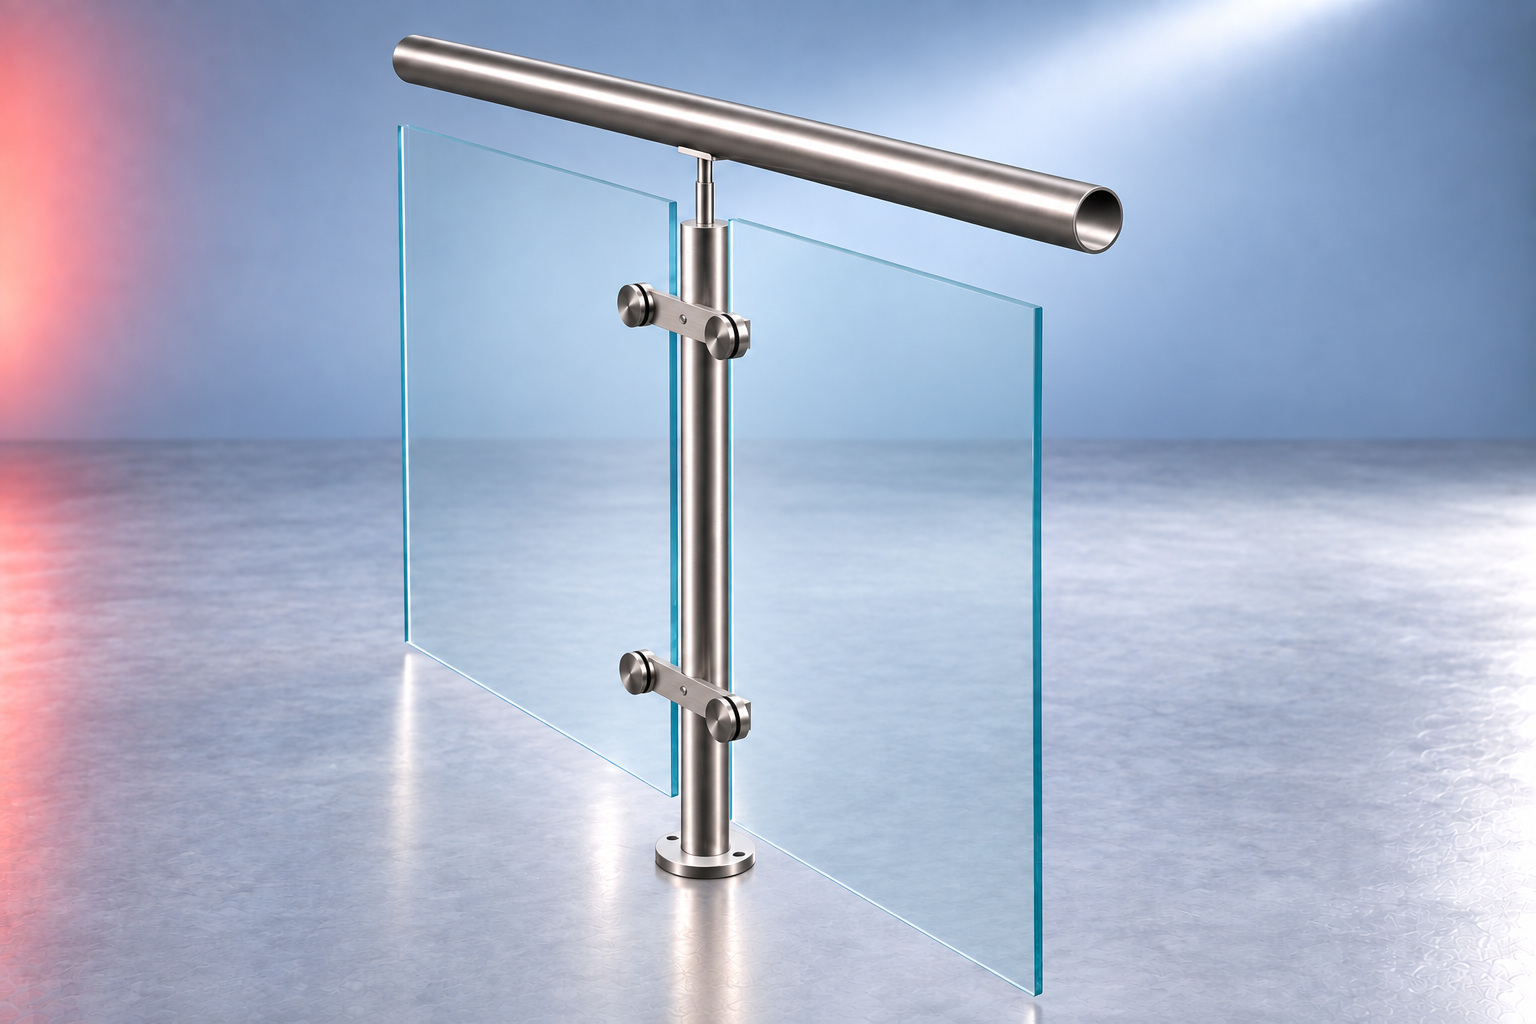
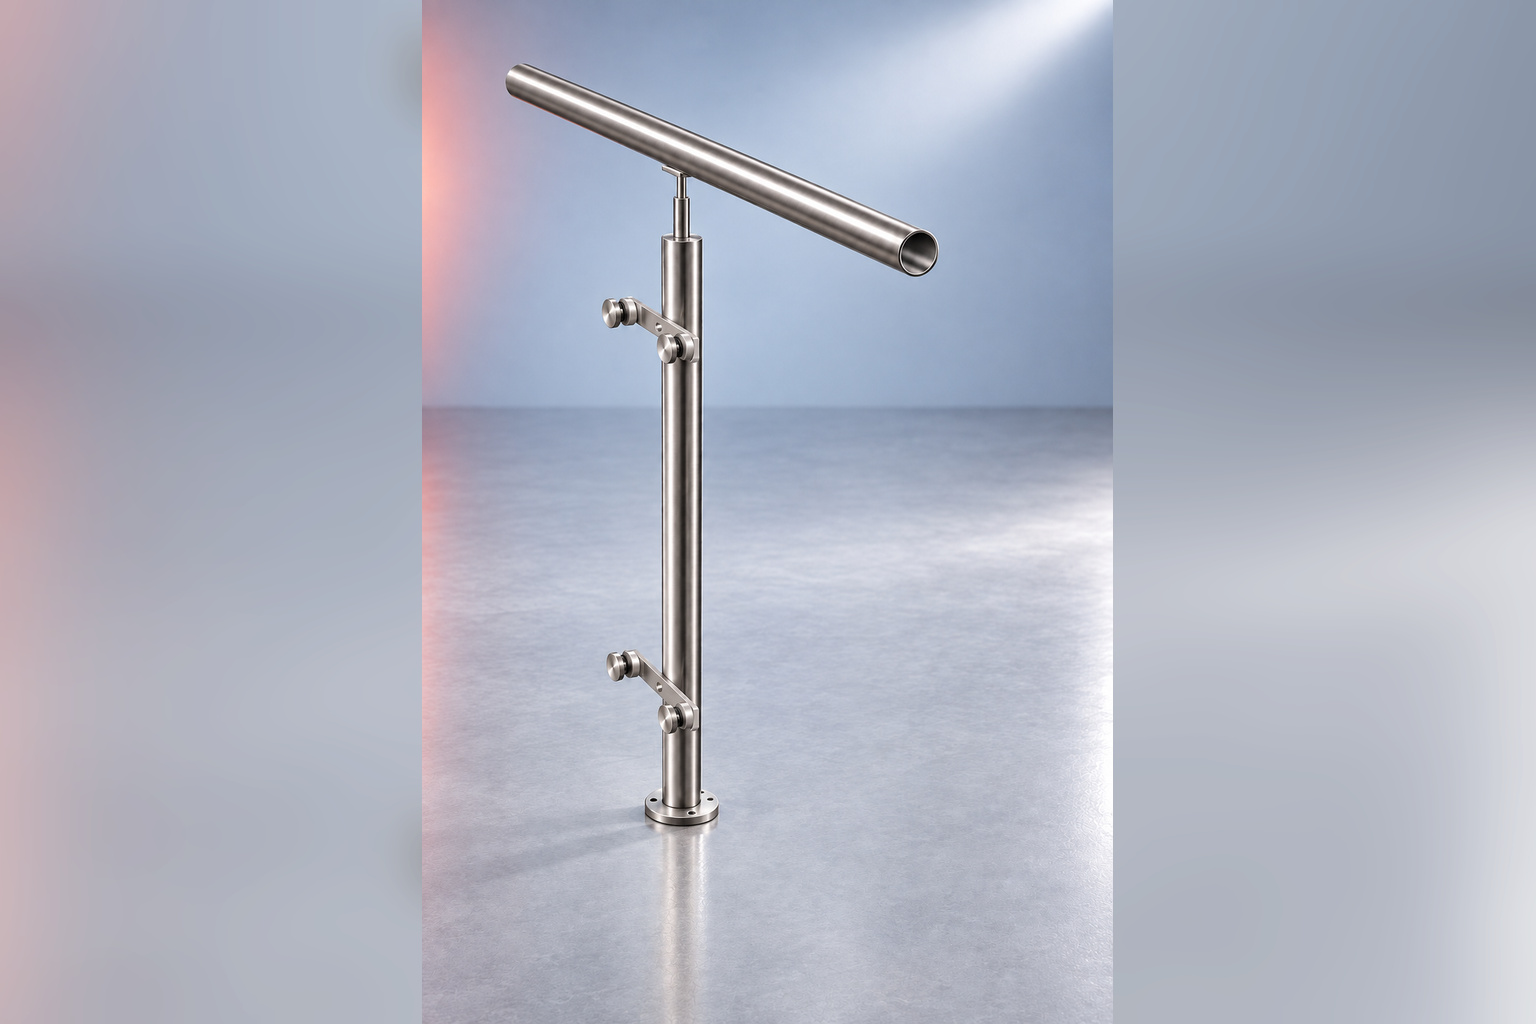
Use final HRD 1223 and HRD 1221 covers (1.56.1)

diff --git a/index.html b/index.html
@@ -222,12 +222,12 @@
           <button class="project-open" type="button" data-open-project="hrd1616" aria-haspopup="dialog"><span>Explorar solución</span><b aria-hidden="true"><i></i></b></button>
         </article>
         <article class="project-card project-card-hrd1223" data-project="hrd1223">
-          <figure class="project-card-photo"><img src="/assets/projects/hrd-1223/portada-estudio.jpg?v=1-56-0" alt="Estudio del poste HRD 1223 con cuerpo tubular y brazos ajustables para vidrio" loading="lazy"></figure>
+          <figure class="project-card-photo"><img src="/assets/projects/hrd-1223/portada-estudio.jpg?v=1-56-1" alt="Estudio del poste HRD 1223 con cuerpo tubular y brazos ajustables para vidrio" loading="lazy"></figure>
           <div class="project-card-copy"><span>04 · HRD 1223 · Estudio de tubo</span><h3>Tubo circular.<br>Brazos ajustables.</h3><p>Cuerpo tubular, cuatro puntos de sujeción y vidrio. Una reconstrucción visual para explorar cada unión.</p></div>
           <button class="project-open" type="button" data-open-project="hrd1223" aria-haspopup="dialog"><span>Explorar poste</span><b aria-hidden="true"><i></i></b></button>
         </article>
         <article class="project-card project-card-hrd1221" data-project="hrd1221">
-          <figure class="project-card-photo"><img src="/assets/projects/hrd-1221/portada-estudio.jpg?v=1-56-0" alt="HRD 1221 con cuerpo circular, soleras horizontales y discos para vidrio" loading="lazy"></figure>
+          <figure class="project-card-photo"><img src="/assets/projects/hrd-1221/portada-estudio.jpg?v=1-56-1" alt="HRD 1221 con cuerpo circular, soleras horizontales y discos para vidrio" loading="lazy"></figure>
           <div class="project-card-copy"><span>05 · HRD 1221 · Soleras planas</span><h3>Soleras planas.<br>Cuerpo circular.</h3><p>Dos soleras continuas con fijación central y cuatro puntos de sujeción al vidrio.</p></div>
           <button class="project-open" type="button" data-open-project="hrd1221" aria-haspopup="dialog"><span>Explorar poste</span><b aria-hidden="true"><i></i></b></button>
         </article>

diff --git a/CLAUDE.md b/CLAUDE.md
@@ -1,12 +1,14 @@
 # Herraidea — contexto del proyecto
 
-Versión actual: **1.56.0**
+Versión actual: **1.56.1**
 
 El dominio oficial `www.herraidea.com` sirve la web desde Vercel y `herraidea.com` redirige de forma segura a esa dirección. Las referencias canónicas, la tarjeta social, los datos estructurados y el catálogo descargable usan el dominio oficial. Los registros de correo preexistentes se conservaron al migrar los servidores DNS desde Jimdo a Vercel.
 
 Sitio de producción: `https://www.herraidea.com/`
 
 ## Estado actual
+
+Las portadas 04 y 05 usan las imágenes finales proporcionadas del HRD 1223 y HRD 1221, sin cristal. Ambas comparten un lienzo de 1536 × 1024 con el fondo extendido, conservando el producto completo y sin modificar los modelos 3D.
 
 Las portadas 04 y 05 se rehacen desde los modelos 3D reales. La 04 muestra un solo HRD 1223 intermedio con brazos tubulares; la 05 muestra un solo HRD 1221 intermedio con soleras planas. Los cristales están alineados con las mordazas y los modelos interactivos permanecen sin cambios.
 

diff --git a/CHANGELOG.md b/CHANGELOG.md
@@ -1,3 +1,8 @@
+## 1.56.1 — 2026-09-21
+
+- Las portadas 04 y 05 usan las imágenes finales proporcionadas del HRD 1223 y HRD 1221, sin cristal y sin alterar la geometría de los postes.
+- Ambas imágenes se normalizan a 1536 × 1024 mediante extensión del fondo original para conservar completos los productos en computadora y teléfono.
+
 ## 1.56.0 — 2026-09-21
 
 - Las portadas 04 y 05 se rehacen a partir de sus modelos 3D reales: un solo poste intermedio HRD 1223 con brazos tubulares y un solo HRD 1221 con soleras planas.
